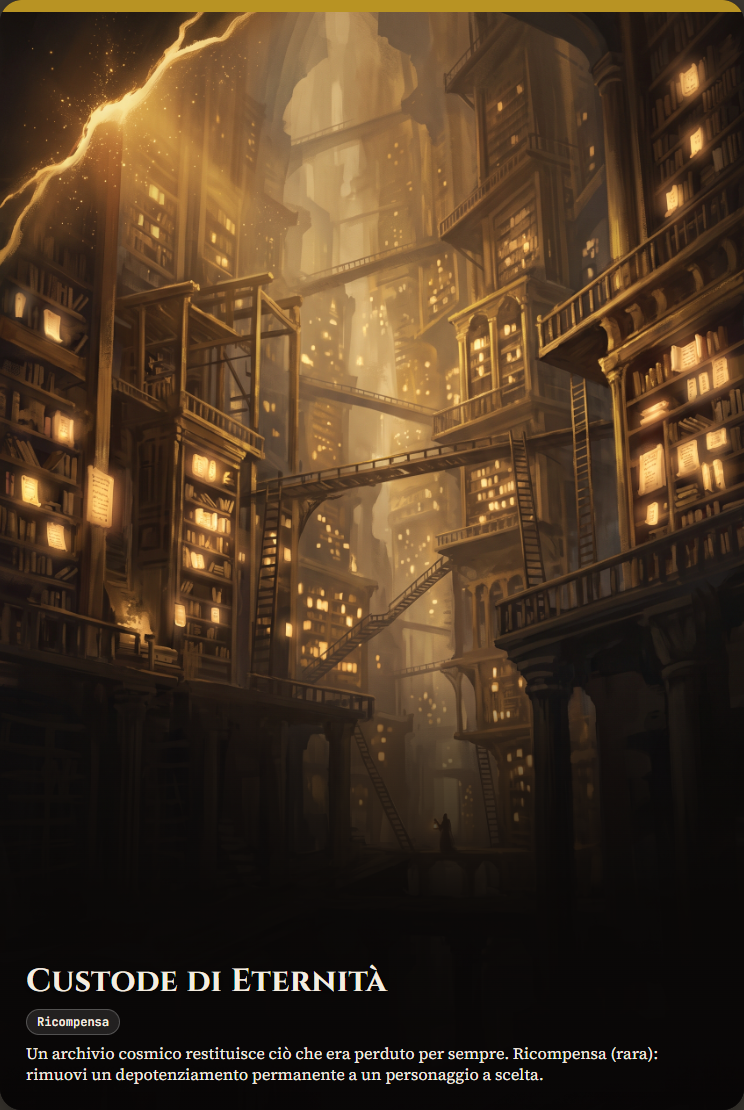
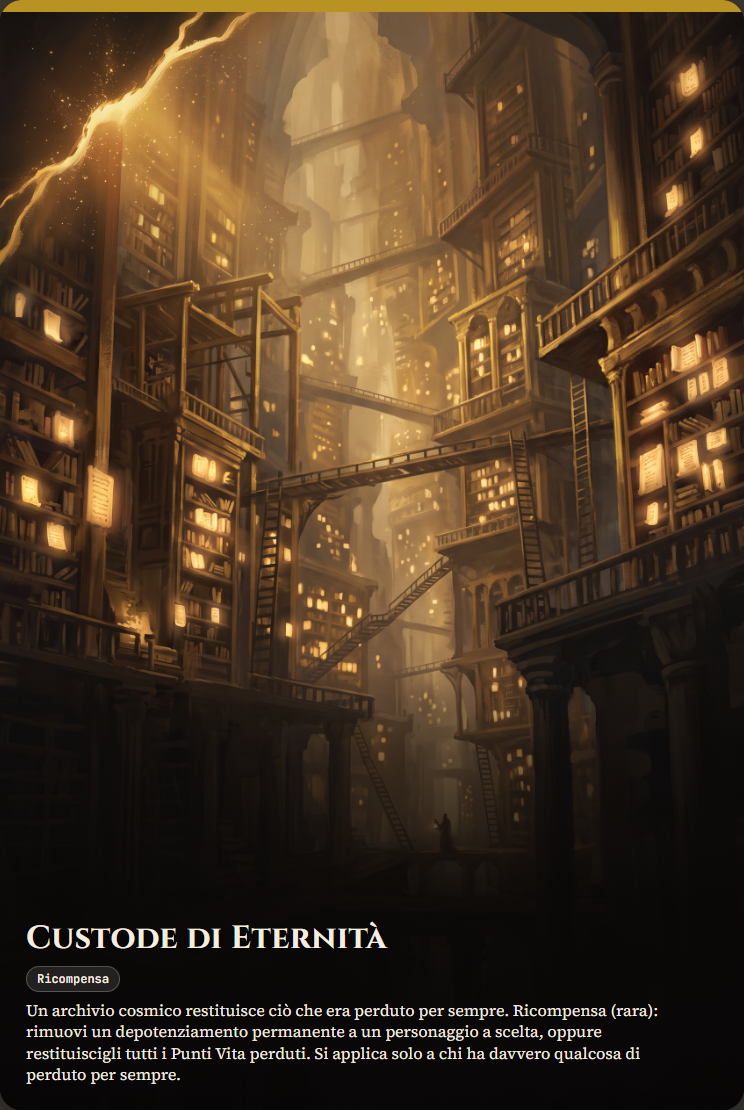
Custode di Eternità: offerto solo a chi ha davvero perduto qualcosa, include anche i PV
Il pulsante "Rimuovi 1 depotenz. perm." veniva mostrato per OGNI
personaggio presente, anche per chi non aveva alcun depotenziamento
permanente — cliccarlo per un personaggio "pulito" apriva un modal
vuoto che si richiudeva subito senza fare nulla, uno spreco della
carta (rara).

Aggiunta eternitaEligible(c): un personaggio è idoneo solo se ha un
depotenziamento permanente su una caratteristica, OPPURE ha ancora
PV mancanti rispetto al proprio massimo di partenza (il Recupero
normale ne restituisce solo 1 alla volta, quindi restano "perduti"
a lungo). Il pannello ricompensa ora filtra ai soli idonei; se
nessuno lo è, mostra un messaggio chiaro invece di bottoni inutili.

Il modal di scelta ora offre anche "Punti Vita" come opzione
selezionabile (accanto alle caratteristiche permanentemente
depotenziate), che riporta i PV al massimo di partenza. Testo della
carta aggiornato e illustrazione ricomposta (arte originale in
cards_raw invariata).

Verificato dal vivo: un personaggio senza perdite non compare più
tra le scelte; uno con un depotenziamento permanente a Forza lo
recupera scegliendolo; uno con PV mancanti li recupera al massimo
scegliendo "Punti Vita"; con nessun personaggio idoneo compare il
messaggio corretto invece del pulsante a vuoto.

Changed region(s): [[0.0309, 0.827, 0.8965, 0.9802]]

diff --git a/index.html b/index.html
@@ -420,7 +420,7 @@ const INCONTRI = {
     C("ar_custode","Custode Sacro","incontro","Un guardiano purificatore attacca chiunque si trovi nel gruppo. Scontro di Forza (valore nemico 2).",{check:"for",gravity:0}),
     C("ar_automa","Automa di Metallo","incontro","Un costrutto meccanico attacca con precisione glaciale. Scontro di Destrezza (valore nemico 2).",{check:"des",gravity:0}),
     C("ar_oracolo","Oracolo della Verità","check","Un oracolo rivela un fatto scomodo. Check di Sanità Mentale: se fallito, depotenziamento temporaneo a una caratteristica casuale.",{check:"san",onFail:{type:"tempDebuff",stat:"random"}}),
-    C("ar_eternita","Custode di Eternità","ricompensa","Un archivio cosmico restituisce ciò che era perduto per sempre. Ricompensa (rara): rimuovi un depotenziamento permanente a un personaggio a scelta.",{reward:{type:"removePermDebuff"}}),
+    C("ar_eternita","Custode di Eternità","ricompensa","Un archivio cosmico restituisce ciò che era perduto per sempre. Ricompensa (rara): rimuovi un depotenziamento permanente a un personaggio a scelta, oppure restituiscigli tutti i Punti Vita perduti. Si applica solo a chi ha davvero qualcosa di perduto per sempre.",{reward:{type:"removePermDebuff"}}),
     C("ar_statua","Statua di Stasi","check","Il tempo si ferma per un oggetto, proteggendolo per sempre da perdite, furti e distruzione.",{statuaCard:true}),
     C("ar_benedizione","Benedizione","ricompensa","Una cura o protezione tipica del piano Sacro. Ricompensa: +1 PV a tutti i presenti, e un depotenziamento temporaneo guarito a un personaggio.",{reward:{type:"groupHealCure"}}),
     C("ar_geometria","Geometria perfetta","incontro","Un'entità di Ordine assoluto punisce ogni imperfezione. Scontro forte sulla statistica nativa del piano (valore nemico 3).",{check:"native",gravity:1,forte:true}),
@@ -2490,7 +2490,11 @@ function renderRewardPanel(card, acts){
       if(!debuffed.length) return `<button class="primary" id="btnApplyReward">Applica: +1 PV a tutti (nessun depotenziamento da guarire)</button>`;
       return `<p class="hint">+1 PV a tutti i presenti. Scegli anche chi guarisce da un depotenziamento temporaneo:</p><div>${debuffed.map(c=>`<button class="small" data-curedebuff="${c.id}">${escapeHtml(c.name)}</button>`).join(' ')}</div>`;
     }
-    case 'removePermDebuff': return `<div>${acts.map(c=>`<button class="small" data-rmperm="${c.id}">Rimuovi 1 depotenz. perm. a ${c.name}</button>`).join(' ')}</div>`;
+    case 'removePermDebuff': {
+      const eligible = acts.filter(eternitaEligible);
+      if(!eligible.length) return `<p class="hint">Nessuno tra i presenti ha davvero perso qualcosa per sempre: l'archivio non ha nulla da restituire.</p><button id="btnDeclineReward">Continua</button>`;
+      return `<div>${eligible.map(c=>`<button class="small" data-rmperm="${c.id}">Restituisci qualcosa di perduto a ${c.name}</button>`).join(' ')}</div>`;
+    }
     case 'sanheal': return `<div>${acts.map(c=>`<button class="small" data-sanheal="${c.id}">+1 San a ${c.name}</button>`).join(' ')}</div>`;
     case 'healChoiceSanAnima': return `<div>${acts.map(c=>`<button class="small" data-hcsa="${c.id}-san">+1 San a ${c.name}</button><button class="small" data-hcsa="${c.id}-anima">+1 Anima a ${c.name}</button>`).join(' ')}</div>`;
     case 'choiceLoss': return `<div>${acts.map(c=>`<span style="display:block;margin-bottom:.3rem;">${c.name}: <button class="small" data-lose="${c.id}-pv">-1 PV</button> <button class="small" data-lose="${c.id}-item" ${c.inventory.length?'':'disabled'}>Perdi oggetto</button></span>`).join('')}</div>`;
@@ -2579,20 +2583,33 @@ function bindRewardPanel(card, acts){
     done();
   });
 }
+function eternitaEligible(c){
+  // "ciò che era perduto per sempre": un depotenziamento permanente su una caratteristica,
+  // oppure Punti Vita mai recuperati (il Recupero normale ne restituisce solo 1 a botta).
+  return STATS.some(s=>s!=='pv' && c.permDebuffN[s]>0) || c.stats.pv<c.start.pv;
+}
 function openRemovePermModal(c){
-  const stats = STATS.filter(s=>s!=='pv' && c.permDebuffN[s]>0);
-  if(stats.length===0){
-    logMsg(`✨ ${c.name} non ha alcun depotenziamento permanente da rimuovere: l'archivio non trova nulla da restituire.`);
+  const debuffStats = STATS.filter(s=>s!=='pv' && c.permDebuffN[s]>0);
+  const canHealPv = c.stats.pv < c.start.pv;
+  if(debuffStats.length===0 && !canHealPv){
+    logMsg(`✨ ${c.name} non ha nulla di perduto per sempre da restituire: l'archivio non trova nulla.`);
     finishIncontro();
     return;
   }
-  openModal(`<h3>📜 Custode di Eternità</h3><p>Scegli quale depotenziamento permanente rimuovere a ${escapeHtml(c.name)}:</p>
-    <div class="row">${stats.map(s=>`<button class="small" data-rmpermstat="${s}">${STAT_LABEL[s]} (-${c.permDebuffN[s]} attuale)</button>`).join('')}</div>`);
+  const pvBtn = canHealPv ? `<button class="small" data-rmpermstat="pv">Punti Vita (${c.stats.pv} → ${c.start.pv})</button>` : '';
+  openModal(`<h3>📜 Custode di Eternità</h3><p>Scegli cosa restituire a ${escapeHtml(c.name)}:</p>
+    <div class="row">${debuffStats.map(s=>`<button class="small" data-rmpermstat="${s}">${STAT_LABEL[s]} (-${c.permDebuffN[s]} attuale)</button>`).join('')}${pvBtn}</div>`);
   document.querySelectorAll('[data-rmpermstat]').forEach(b=>b.onclick=()=>{
     const stat=b.dataset.rmpermstat;
-    c.permDebuffN[stat]--;
-    c.stats[stat]=Math.min(c.start[stat], c.stats[stat]+1);
-    logMsg(`✨ ${c.name}: un depotenziamento permanente a ${STAT_LABEL[stat]} viene rimosso.`,'good');
+    if(stat==='pv'){
+      const before=c.stats.pv;
+      c.stats.pv = c.start.pv;
+      logMsg(`✨ ${c.name}: i Punti Vita perduti tornano al massimo (${before} → ${c.stats.pv}).`,'good');
+    } else {
+      c.permDebuffN[stat]--;
+      c.stats[stat]=Math.min(c.start[stat], c.stats[stat]+1);
+      logMsg(`✨ ${c.name}: un depotenziamento permanente a ${STAT_LABEL[stat]} viene rimosso.`,'good');
+    }
     closeModal();
     finishIncontro();
   });
